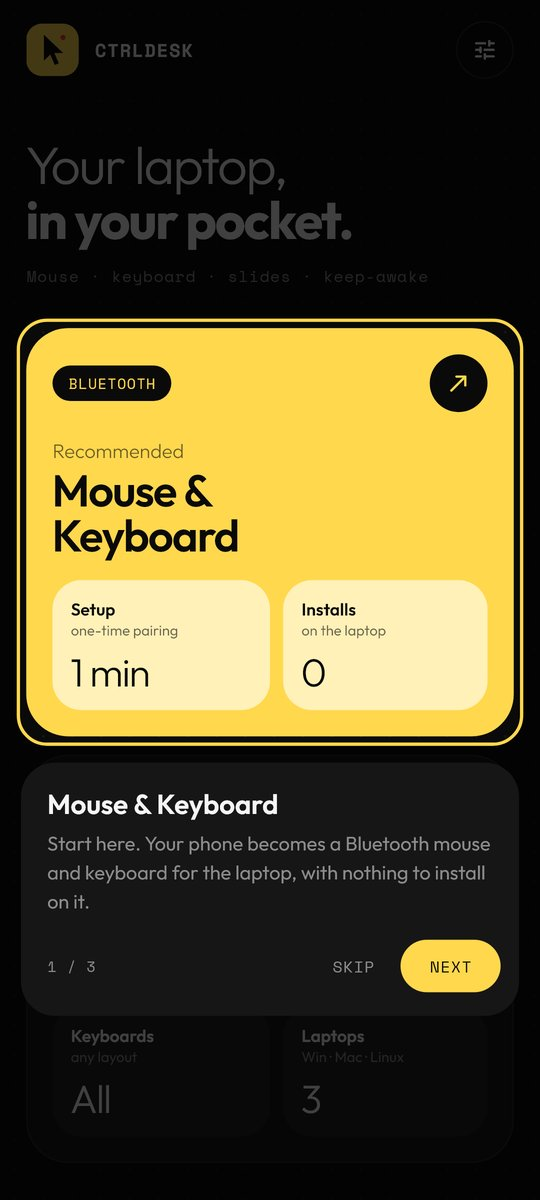
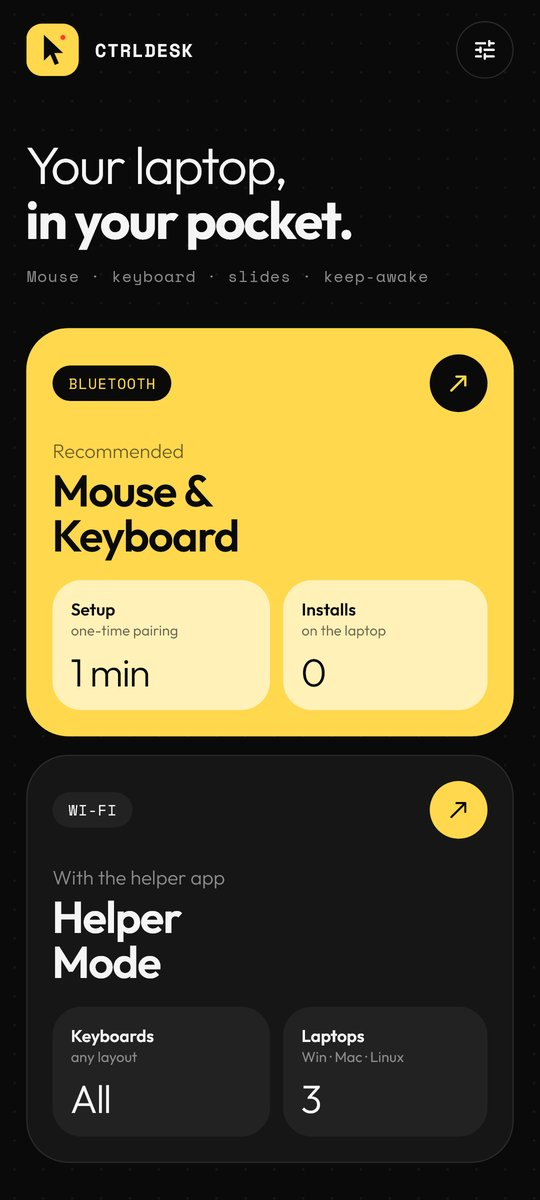
Screenshots: latest UI, no tutorial overlays

diff --git a/index.html b/index.html
@@ -102,10 +102,9 @@
   <section>
     <div class="head"><span class="mono">Screens</span><span class="mono">[Scroll →]</span></div>
     <div class="gallery" style="margin-top:20px">
-      <figure><img src="img/tour.jpg" alt="Illustrated welcome tour" loading="lazy"><figcaption class="mono">Welcome tour</figcaption></figure>
-      <figure><img src="img/home.jpg" alt="Tutorial highlighting the Mouse and Keyboard card on the home screen" loading="lazy"><figcaption class="mono">Guided tutorial</figcaption></figure>
-      <figure><img src="img/mouse.jpg" alt="Tutorial explaining the trackpad" loading="lazy"><figcaption class="mono">Trackpad</figcaption></figure>
-      <figure><img src="img/slides.jpg" alt="Tutorial on the presentation remote" loading="lazy"><figcaption class="mono">Slides</figcaption></figure>
+      <figure><img src="img/home.jpg" alt="CtrlDesk home screen" loading="lazy"><figcaption class="mono">Home</figcaption></figure>
+      <figure><img src="img/mouse.jpg" alt="Trackpad" loading="lazy"><figcaption class="mono">Trackpad</figcaption></figure>
+      <figure><img src="img/slides.jpg" alt="Presentation remote" loading="lazy"><figcaption class="mono">Slides</figcaption></figure>
       <figure><img src="img/actions.jpg" alt="Shortcuts" loading="lazy"><figcaption class="mono">Actions</figcaption></figure>
       <figure><img src="img/awake.jpg" alt="Keep awake" loading="lazy"><figcaption class="mono">Keep awake</figcaption></figure>
     </div>
